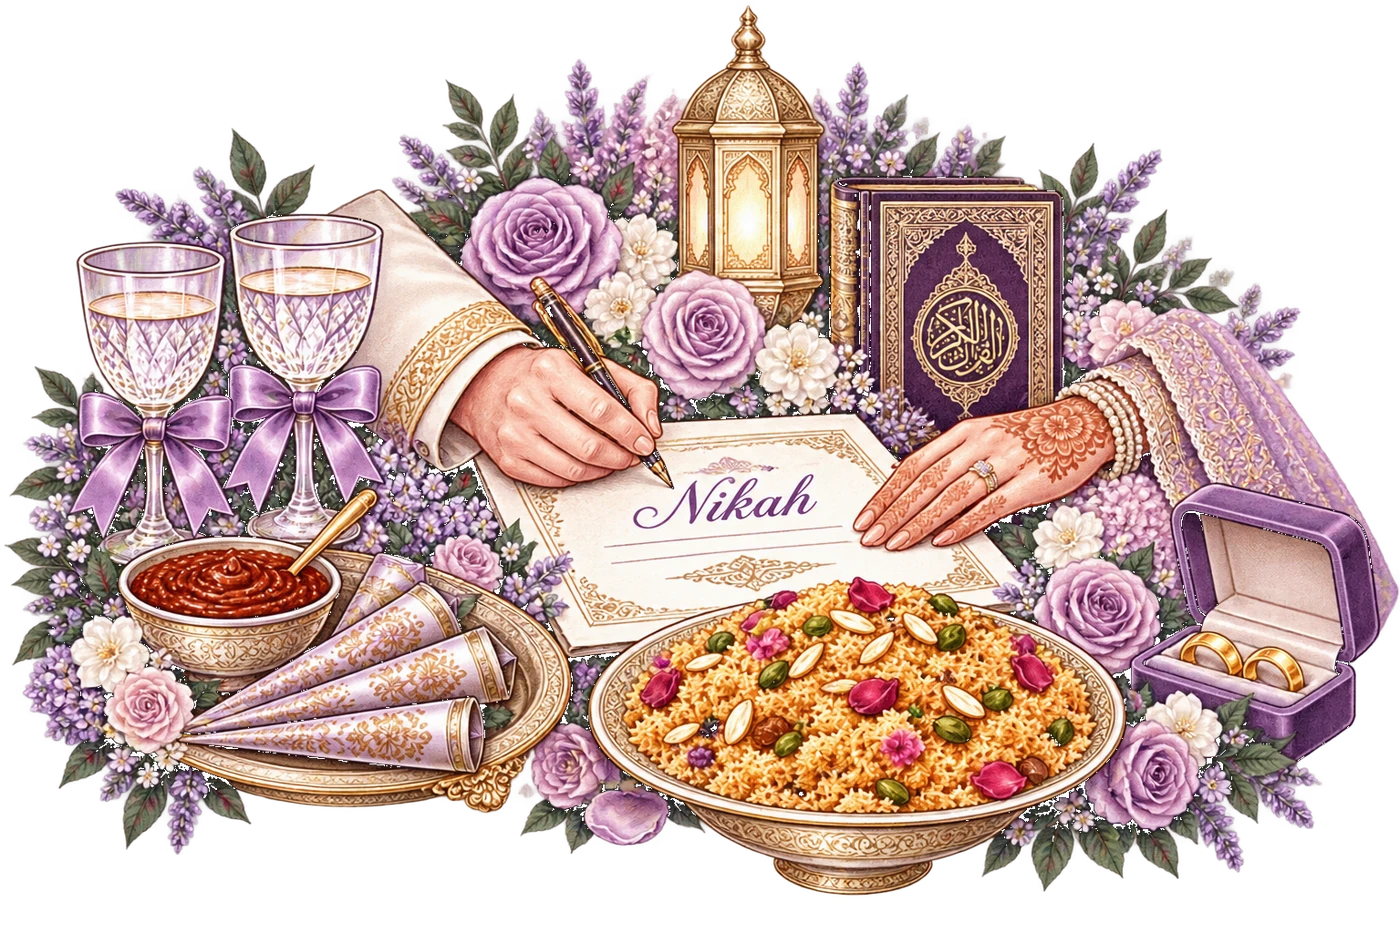
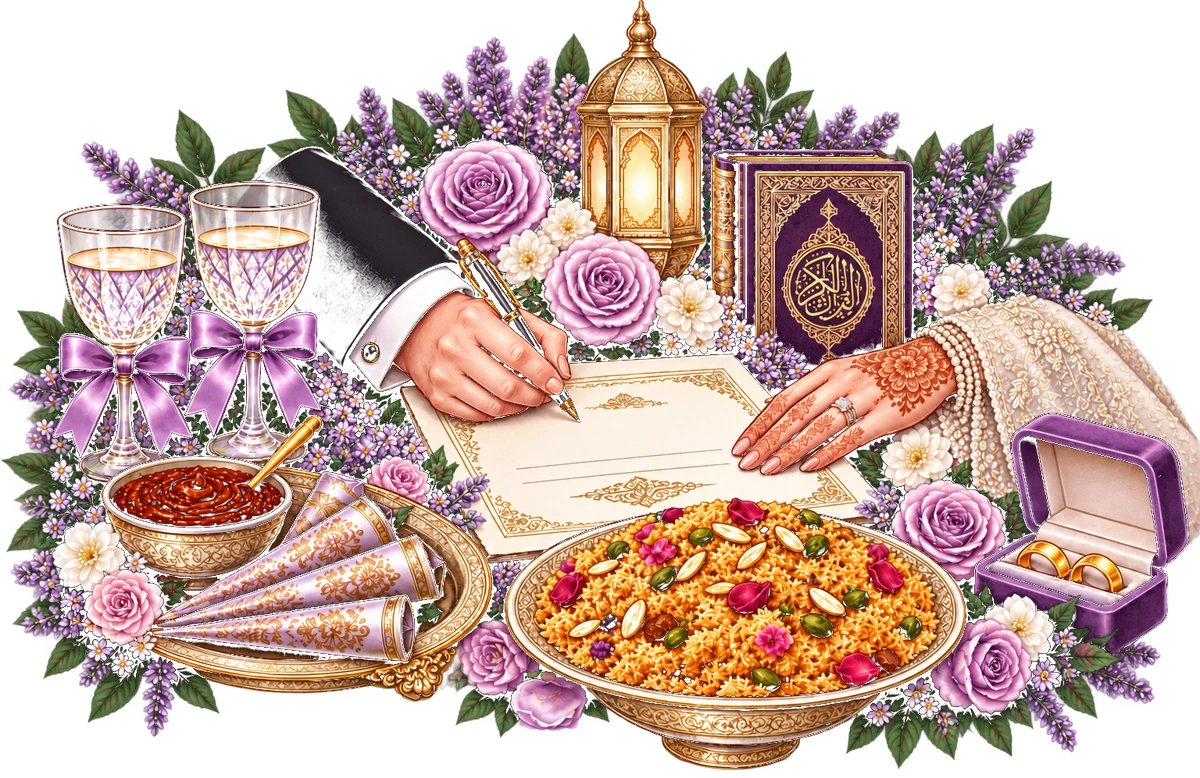
Refresh the ceremony timeline illustration.

diff --git a/src/data/invite.ts b/src/data/invite.ts
@@ -86,7 +86,7 @@ export const invite: InviteConfig = {
         time: '8:00 PM',
         title: 'CEREMONY',
         description: 'Ceremony starts',
-        icon: '/media/timeline-ceremony.webp?v=2',
+        icon: '/media/timeline-ceremony.webp?v=3',
       },
       {
         time: '8:30 PM',
